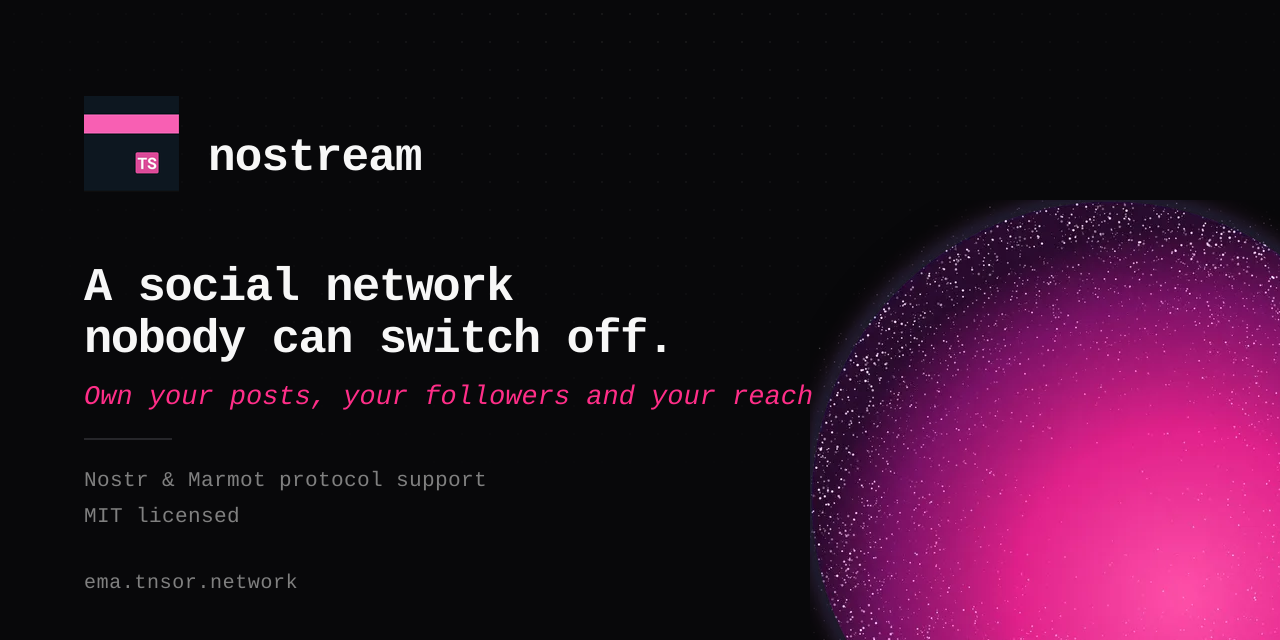
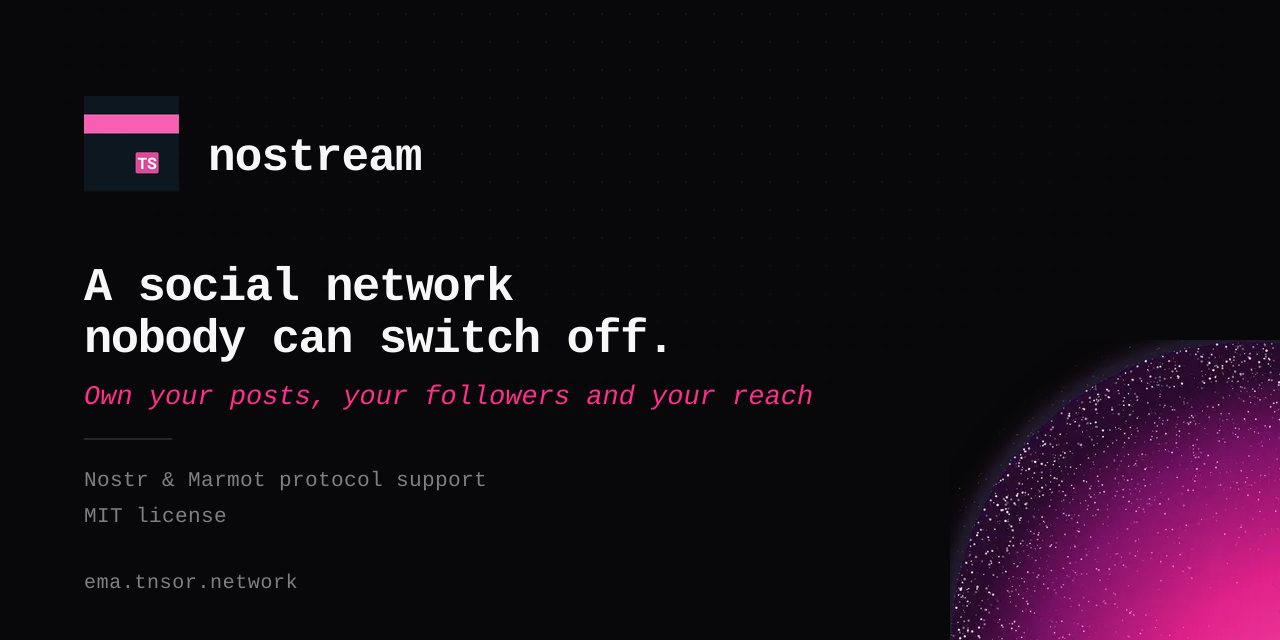
fix(website): move the card's planet off the copy and say "MIT license"
The card's planet sat at left: W-470, so its disc reached x≈766 while the
copy runs to x=1196 — the rim and its dust sat behind the ownership line
and both licence rows. Measured on the regenerated 1200x630 card, the
backdrop under the licence text drops to 6.3% non-black.

The planet now sits at left: W-330, top: H-300, fully in the bottom-right
corner on both sizes. The licence line reads "MIT license", Cameri's
wording, instead of "MIT licensed".

Changed region(s): [[0.625, 0.3125, 1.0, 1.0]]

diff --git a/website/hero-animation/src/film.ts b/website/hero-animation/src/film.ts
@@ -7,7 +7,6 @@ import {
   BODY,
   DURATION,
   FG,
-  FG_2,
   FONT_MONO,
   FONT_SANS,
   FPS,
@@ -211,16 +210,17 @@ export async function buildFilm(): Promise<Composition> {
 
   const planetSize = 1700
   const haloSize = planetSize * (2000 / 1600)
+  const planetX = 1210
   const planetY: Key[] = [
-    [0, 1100],
-    [60, 520, 'power3.out'],
-    [HERO.end - 10, 505],
-    [WHAT.start + 25, 700, 'power2.inOut'],
-    [WHAT.end - 20, 710],
-    [FLOW.start + 20, 790, 'power2.inOut'],
-    [FEATURES.end - 20, 820],
-    [DEPLOY.start + 30, 500, 'power3.out'],
-    [LAST, 480],
+    [0, 1210],
+    [60, 640, 'power3.out'],
+    [HERO.end - 10, 625],
+    [WHAT.start + 25, 790, 'power2.inOut'],
+    [WHAT.end - 20, 800],
+    [FLOW.start + 20, 870, 'power2.inOut'],
+    [FEATURES.end - 20, 900],
+    [DEPLOY.start + 30, 580, 'power3.out'],
+    [LAST, 560],
   ]
   const planetOpacity: Key[] = [
     [0, 0],
@@ -235,7 +235,7 @@ export async function buildFilm(): Promise<Composition> {
   add(
     Layer.image(asset('planet'), {
       position: 'absolute',
-      x: 1000,
+      x: planetX,
       y: 1100,
       width: planetSize,
       height: planetSize,
@@ -250,7 +250,7 @@ export async function buildFilm(): Promise<Composition> {
   add(
     Layer.image(asset('sparkles'), {
       position: 'absolute',
-      x: 1000 - haloOffset,
+      x: planetX - haloOffset,
       y: 1100 - haloOffset,
       width: haloSize,
       height: haloSize,
@@ -365,43 +365,31 @@ export async function buildFilm(): Promise<Composition> {
   light('nostream', 24, heroOut)
   sceneLabel('NOSTREAM  ·  OPEN-SOURCE NOSTR RELAY', 196, 6, heroOut)
   const headline: [string, string][] = [
-    ['Your relay.', FG],
-    ['Your rules.', FG_2],
-    ['Nostr, wired in.', PINK],
+    ['A social network', FG],
+    ['nobody can', PINK],
+    ['switch off.', PINK],
   ]
   headline.forEach(([text, fill], i) => {
-    const y = 228 + i * 112
+    const y = 216 + i * 96
     add(
-      sans(text, hx - 6, y, 108, { fill, letterSpacing: -4, fontWeight: 800 }),
+      sans(text, hx - 6, y, 92, { fill, letterSpacing: -4, fontWeight: 800 }),
       show(y, { start: 12 + i * 9, end: heroOut, dy: 40, inF: 18 }),
     )
   })
 
-  const bodyY1 = 606
-  const bodyY2 = 640
+  const bodyY1 = 540
+  const bodyY2 = 574
   add(
-    mono('A production-ready Nostr relay, written in TypeScript.', hx, bodyY1, 21, { fill: BODY }),
+    mono('Own your posts, your followers and your reach.', hx, bodyY1, 21, { fill: BODY }),
     show(bodyY1, { start: 42, end: heroOut, dy: 14 }),
   )
-  const prefix = 'Your server. Your data. No '
-  const struck = 'middleman'
-  const strikeX = hx + monoWidth(prefix, 21)
-  add(mono(prefix, hx, bodyY2, 21, { fill: BODY }), show(bodyY2, { start: 48, end: heroOut, dy: 14 }))
-  add(mono(struck, strikeX, bodyY2, 21, { fill: MUTED }), show(bodyY2, { start: 48, end: heroOut, dy: 14 }))
   add(
-    mono('.', strikeX + monoWidth(struck, 21), bodyY2, 21, { fill: BODY }),
+    mono('A production-ready Nostr relay, written in TypeScript.', hx, bodyY2, 21, { fill: BODY }),
     show(bodyY2, { start: 48, end: heroOut, dy: 14 }),
   )
-  add(
-    rect(strikeX - 2, bodyY2 + 14, 0, 2, { background: PINK }),
-    show(bodyY2 + 14, { start: 66, end: heroOut }).keys('width', [
-      [66, 0],
-      [80, monoWidth(struck, 21) + 4, 'power2.out'],
-    ]),
-  )
 
-  tabs(708, 62, heroOut)
-  const heroTerm = { y: 744, w: 780 }
+  tabs(628, 62, heroOut)
+  const heroTerm = { y: 664, w: 780 }
   add(
     rect(hx, heroTerm.y, heroTerm.w, 70, {
       background: PANEL,
@@ -438,12 +426,11 @@ export async function buildFilm(): Promise<Composition> {
   copyButton(hx + heroTerm.w - 18, heroTerm.y + 18, 74, heroOut)
 
   const stats: [string, string][] = [
-    [NIP_COUNT, 'NIPS SUPPORTED'],
-    ['6', 'LIGHTNING PROCESSORS'],
-    ['MIT', 'OPEN SOURCE'],
+    ['Nostr + Marmot', 'PROTOCOL SUPPORT'],
+    ['MIT', 'LICENSE'],
   ]
   stats.forEach(([value, label], i) => {
-    const x = hx + i * 270
+    const x = hx + i * 460
     const s = 96 + i * 8
     add(rect(x, 868, 1, 62, { background: LINE }), show(868, { start: s, end: heroOut }))
     add(
@@ -483,7 +470,7 @@ export async function buildFilm(): Promise<Composition> {
       num: '03',
       title: 'nostream',
       body: 'A production-ready relay\nin TypeScript that you\ndeploy and control.',
-      tag: 'self-hosted  ·  open source',
+      tag: 'self-hosted  ·  MIT license',
     },
   ]
   const wc = { y: 430, w: 440, h: 330, gap: 140 }

diff --git a/website/site/src/scripts/spark-field.ts b/website/site/src/scripts/spark-field.ts
@@ -1,6 +1,7 @@
 /**
- * Silver dot field rising from the pink planet (CTA and film-stage sections),
- * or a left-to-right stream when the host sets data-spark-mode="stream" (home hero).
+ * Silver dot field rising from the pink planet (CTA and deploy sections).
+ * The old left-to-right stream mode is gone: the home hero used it and it made
+ * the headline unreadable (measured 2026-10-18, Cameri's call).
  */
 export function initSparkFields() {
   document.querySelectorAll<HTMLElement>('[data-spark-host]').forEach((section) => {
@@ -15,7 +16,6 @@ export function initSparkFields() {
 
     const maxPool = Number(canvas.dataset.maxPool || 260)
     const spawnChance = Number(canvas.dataset.spawnChance || 0.85)
-    const stream = section.dataset.sparkMode === 'stream'
     const perFrame = Number(canvas.dataset.perFrame || 1)
 
     let w = 0
@@ -29,7 +29,6 @@ export function initSparkFields() {
       vy: number
       life: number
       max: number
-      phase: number
       bright: boolean
     }
     const pool: P[] = []
@@ -46,31 +45,7 @@ export function initSparkFields() {
       ctx.setTransform(dpr, 0, 0, dpr, 0, 0)
     }
 
-    const leftStrip = () => Math.min(72, w * 0.085)
-
-    const spawnStream = (edge = false) => {
-      const band = (Math.random() + Math.random() + Math.random()) / 3
-      const speed = edge ? 0.25 + Math.random() * 0.95 : 0.9 + Math.random() * 2.5
-      const strip = leftStrip()
-      pool.push({
-        x: edge ? Math.random() * strip : -2 - Math.random() * 12,
-        y: h * (0.08 + band * 0.84),
-        vx: speed,
-        vy: (Math.random() - 0.5) * (edge ? 0.12 : 0.18),
-        life: 0,
-        max: edge
-          ? 140 + Math.random() * 220
-          : (w * (0.5 + Math.random() * 0.45)) / speed,
-        phase: Math.random() * Math.PI * 2,
-        bright: Math.random() < (edge ? 0.62 : 0.48),
-      })
-    }
-
     const spawn = () => {
-      if (stream) {
-        spawnStream(Math.random() < 0.62)
-        return
-      }
       const spread = w * (section.dataset.sparkSpread ? Number(section.dataset.sparkSpread) : 0.48)
       const yBase = h * (section.dataset.sparkOrigin ? Number(section.dataset.sparkOrigin) : 0.9)
       pool.push({
@@ -80,7 +55,6 @@ export function initSparkFields() {
         vy: -(0.5 + Math.random() * 1.2),
         life: 0,
         max: 80 + Math.random() * 120,
-        phase: 0,
         bright: Math.random() < 0.2,
       })
     }
@@ -91,37 +65,19 @@ export function initSparkFields() {
       for (let n = 0; n < perFrame; n++) {
         if (pool.length < maxPool && Math.random() < spawnChance) spawn()
       }
-      if (stream && pool.length < maxPool) {
-        if (Math.random() < 0.82) spawn()
-        for (let k = 0; k < 4; k++) {
-          if (pool.length < maxPool && Math.random() < 0.78) spawnStream(true)
-        }
-      }
 
       for (let i = pool.length - 1; i >= 0; i--) {
         const p = pool[i]
         p.life++
-        if (stream) {
-          p.x += p.vx
-          p.y += p.vy + Math.sin(p.life * 0.04 + p.phase) * 0.22
-        } else {
-          p.x += p.vx + Math.sin(p.life * 0.07 + i) * 0.12
-          p.y += p.vy
-          p.vy -= 0.004
-        }
+        p.x += p.vx + Math.sin(p.life * 0.07 + i) * 0.12
+        p.y += p.vy
+        p.vy -= 0.004
 
         const t = p.life / p.max
-        let alpha = t < 0.08 ? t / 0.08 : t > 0.78 ? (1 - t) / 0.22 : 1
-        if (stream) {
-          alpha *= 0.68 + 0.42 * Math.abs(Math.sin(p.life * 0.13 + p.phase))
-          if (p.x < leftStrip()) alpha = Math.min(1, alpha * 1.18)
-        }
+        const alpha = t < 0.08 ? t / 0.08 : t > 0.78 ? (1 - t) / 0.22 : 1
 
         if (p.bright) {
           ctx.fillStyle = `rgba(255,255,255,${Math.min(1, alpha)})`
-        } else if (stream) {
-          const s = 246 + (i % 5)
-          ctx.fillStyle = `rgba(${s},${s + 1},255,${Math.min(1, alpha * 0.98)})`
         } else {
           const silver = 175 + (i % 5) * 8
           ctx.fillStyle = `rgba(${silver},${silver + 6},${silver + 14},${0.92 * alpha})`
@@ -129,7 +85,7 @@ export function initSparkFields() {
 
         ctx.fillRect(Math.round(p.x), Math.round(p.y), 1, 1)
 
-        if (p.life >= p.max || p.y < -20 || p.x > w + 10) pool.splice(i, 1)
+        if (p.life >= p.max || p.y < -20) pool.splice(i, 1)
       }
 
       raf = requestAnimationFrame(tick)

diff --git a/website/hero-animation/src/build-assets.ts b/website/hero-animation/src/build-assets.ts
@@ -100,7 +100,7 @@ async function planet() {
   const rand = rng(7)
   const dots: string[] = []
 
-  for (let i = 0; i < 5200; i++) {
+  for (let i = 0; i < 1800; i++) {
     const a = rand() * Math.PI * 2
     const d = Math.sqrt(rand()) ** 0.55 * r
     const x = c + Math.cos(a) * d
@@ -176,7 +176,7 @@ async function sparkles() {
   const c = S / 2
   const rand = rng(11)
   const dots: string[] = []
-  for (let i = 0; i < 1400; i++) {
+  for (let i = 0; i < 380; i++) {
     const a = rand() * Math.PI * 2
     const d = 700 + rand() ** 1.6 * 280
     const x = c + Math.cos(a) * d
